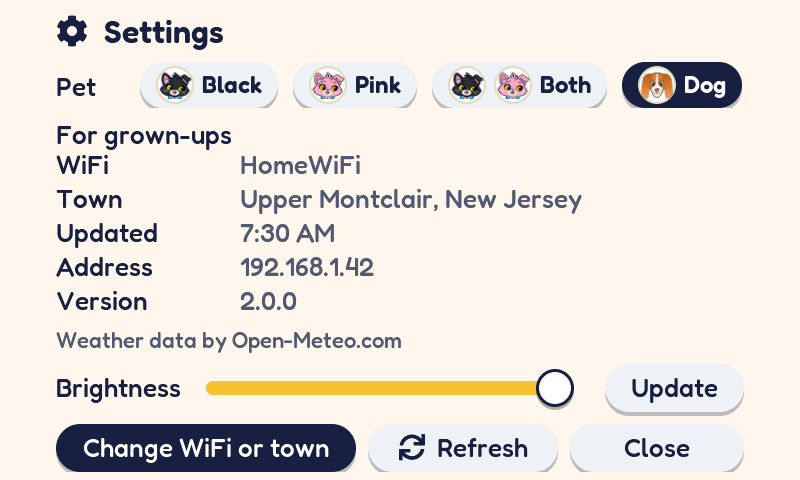
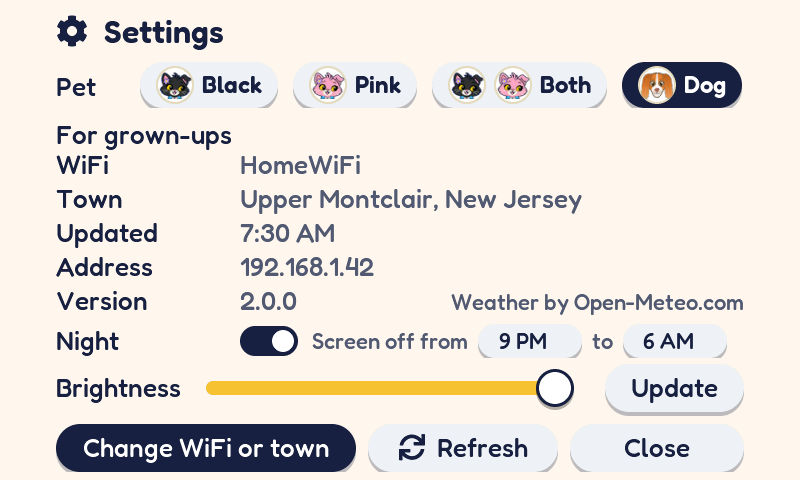
Settings: a Night row for screen off at night and its hours
The 2.0 Settings gets "Night  [switch]  Screen off from [9 PM] to [6 AM]"
in the info table's columns: the same setting as the setup page's night
hours (off until turned on), saved on the board the moment it changes
(WB_ACT_SET_NIGHT, wb_night_pack) and applied at once, since the power
timer reads the saved settings. The hour lists open upward; the weather
credit moves to the end of the Version row. wb_state_t carries night_off,
off_from and off_to; classic gets no-op stubs. Like the Brightness slider,
the row shows only when the board sets its callback, so Boris's own
Settings checks keep his layout.

Sim: shot 58 shows the row, 58b opens the "from" list and picks 8 PM
(the callback fires), with render checks for both.

Claude-Session: https://claude.ai/code/session_01EpKrVnNKAT4DZyGC7XuLCe

diff --git a/components/wb_ui/ui_v2_extras.c b/components/wb_ui/ui_v2_extras.c
@@ -798,3 +798,144 @@ void ui_set_brightness_cb(ui_brightness_cb_t cb)
         lv_obj_add_flag(s_br_speed_pill, LV_OBJ_FLAG_HIDDEN);
     }
 }
+
+/* ------------------------------------------------------------------ screen off at night */
+
+/* Settings: "Night  [on/off]  off from [9 PM] to [6 AM]", the setup page's night hours,
+ * here so a grown-up can change them without the setup hotspot. */
+
+static lv_obj_t *s_nt_row, *s_nt_sw, *s_nt_from, *s_nt_to, *s_nt_credit, *s_nt_version;
+static ui_night_cb_t s_nt_cb;
+
+static void night_style(void)
+{
+    bool on = lv_obj_has_state(s_nt_sw, LV_STATE_CHECKED);
+    lv_obj_set_style_opa(s_nt_from, on ? LV_OPA_COVER : LV_OPA_50, 0);   /* the hours only count when on */
+    lv_obj_set_style_opa(s_nt_to, on ? LV_OPA_COVER : LV_OPA_50, 0);
+}
+
+static void on_night(lv_event_t *e)
+{
+    (void)e;
+    night_style();
+    if (s_nt_cb) {
+        s_nt_cb(lv_obj_has_state(s_nt_sw, LV_STATE_CHECKED), (int)lv_dropdown_get_selected(s_nt_from),
+                (int)lv_dropdown_get_selected(s_nt_to));
+    }
+}
+
+static lv_obj_t *night_hours(lv_obj_t *parent, int x)
+{
+    static char opts[24 * 6];
+    if (!opts[0]) {
+        size_t n = 0;
+        for (int h = 0; h < 24; h++) {
+            n += (size_t)snprintf(opts + n, sizeof(opts) - n, "%s%d %s", h ? "\n" : "", h % 12 ? h % 12 : 12,
+                                  h < 12 ? "AM" : "PM");
+        }
+    }
+    lv_obj_t *d = lv_dropdown_create(parent);
+    lv_dropdown_set_options_static(d, opts);
+    lv_dropdown_set_dir(d, LV_DIR_TOP);   /* the row sits near the bottom: the list opens upward */
+    lv_dropdown_set_symbol(d, NULL);
+    lv_obj_set_size(d, 104, 34);
+    lv_obj_set_pos(d, x, 0);
+    lv_obj_set_style_text_font(d, &font_small, 0);
+    lv_obj_set_style_text_color(d, lv_color_hex(0x1E2340), 0);
+    lv_obj_set_style_text_align(d, LV_TEXT_ALIGN_CENTER, 0);
+    lv_obj_set_style_radius(d, LV_RADIUS_CIRCLE, 0);
+    lv_obj_set_style_bg_color(d, lv_color_hex(0xEDF1F5), 0);
+    lv_obj_set_style_border_width(d, 0, 0);
+    lv_obj_set_style_pad_ver(d, 4, 0);
+    lv_obj_t *list = lv_dropdown_get_list(d);
+    lv_obj_set_style_text_font(list, &font_small, 0);
+    lv_obj_set_style_max_height(list, 260, 0);
+    lv_obj_set_style_radius(list, 14, 0);
+    lv_obj_set_style_border_color(list, lv_color_hex(0xC9C3D6), 0);
+    lv_obj_set_style_bg_color(list, lv_color_hex(0x1E2340), LV_PART_SELECTED | LV_STATE_CHECKED);   /* the ink */
+    lv_obj_set_style_bg_color(list, lv_color_hex(0x545A72), LV_PART_SELECTED | LV_STATE_PRESSED);
+    lv_obj_add_event_cb(d, on_night, LV_EVENT_VALUE_CHANGED, NULL);
+    v2_raise(d);
+    return d;
+}
+
+/* A grey word in the row at x; returns its width. */
+static int night_word(lv_obj_t *parent, const char *txt, int x)
+{
+    lv_obj_t *l = lv_label_create(parent);
+    lv_obj_set_style_text_font(l, &font_small, 0);
+    lv_obj_set_style_text_color(l, lv_color_hex(0x545A72), 0);
+    lv_label_set_text(l, txt);
+    lv_obj_align(l, LV_ALIGN_LEFT_MID, x, 0);
+    lv_point_t sz;
+    lv_text_get_size(&sz, txt, &font_small, 0, 0, LV_COORD_MAX, LV_TEXT_FLAG_NONE);
+    return sz.x;
+}
+
+void v2_night_attach(lv_obj_t *settings, lv_obj_t *credit, lv_obj_t *version_val, int y)
+{
+    s_nt_credit = credit;
+    s_nt_version = version_val;
+    s_nt_row = lv_obj_create(settings);
+    lv_obj_remove_style_all(s_nt_row);
+    lv_obj_remove_flag(s_nt_row, LV_OBJ_FLAG_SCROLLABLE);
+    lv_obj_set_pos(s_nt_row, 56, y);
+    lv_obj_set_size(s_nt_row, 688, 34);
+    lv_obj_t *k = lv_label_create(s_nt_row);   /* in the info table's label column */
+    lv_obj_set_style_text_font(k, &font_body, 0);
+    lv_obj_set_style_text_color(k, lv_color_hex(0x1E2340), 0);
+    lv_label_set_text(k, "Night");
+    lv_obj_align(k, LV_ALIGN_LEFT_MID, 0, 0);
+    s_nt_sw = lv_switch_create(s_nt_row);   /* in the value column (x 240 on the page) */
+    lv_obj_set_size(s_nt_sw, 58, 30);
+    lv_obj_align(s_nt_sw, LV_ALIGN_LEFT_MID, 184, 0);
+    lv_obj_set_style_bg_color(s_nt_sw, lv_color_hex(0x1E2340), LV_PART_INDICATOR | LV_STATE_CHECKED);
+    lv_obj_add_event_cb(s_nt_sw, on_night, LV_EVENT_VALUE_CHANGED, NULL);
+    lv_obj_set_ext_click_area(s_nt_sw, 8);
+    int x = 256;
+    x += night_word(s_nt_row, "Screen off from", x) + 10;
+    s_nt_from = night_hours(s_nt_row, x);
+    x += 104 + 10;
+    x += night_word(s_nt_row, "to", x) + 10;
+    s_nt_to = night_hours(s_nt_row, x);
+    ui_set_night(false, 21, 6);
+    lv_obj_add_flag(s_nt_row, LV_OBJ_FLAG_HIDDEN);   /* until the board asks for it */
+}
+
+void ui_set_night(bool on, int from_hour, int to_hour)
+{
+    if (!s_nt_row) {
+        return;
+    }
+    if (on) {   /* set quietly: LVGL sends no VALUE_CHANGED for these */
+        lv_obj_add_state(s_nt_sw, LV_STATE_CHECKED);
+    } else {
+        lv_obj_remove_state(s_nt_sw, LV_STATE_CHECKED);
+    }
+    lv_dropdown_set_selected(s_nt_from, (uint32_t)(from_hour % 24));
+    lv_dropdown_set_selected(s_nt_to, (uint32_t)(to_hour % 24));
+    night_style();
+}
+
+#ifdef WB_SIM
+/* Opens the "from" hours list and picks hour h in it, as a finger would. */
+void v2_night_test_pick(int h)
+{
+    lv_dropdown_open(s_nt_from);
+    lv_dropdown_set_selected(s_nt_from, (uint32_t)h);
+    lv_obj_send_event(s_nt_from, LV_EVENT_VALUE_CHANGED, NULL);
+}
+#endif
+
+void ui_set_night_cb(ui_night_cb_t cb)
+{
+    s_nt_cb = cb;
+    if (s_nt_row) {   /* the row takes the weather credit's line; the credit joins Version's */
+        lv_obj_remove_flag(s_nt_row, LV_OBJ_FLAG_HIDDEN);
+        lv_obj_set_width(s_nt_version, 200);
+        lv_label_set_text(s_nt_credit, "Weather by Open-Meteo.com");
+        lv_obj_set_style_text_align(s_nt_credit, LV_TEXT_ALIGN_RIGHT, 0);
+        lv_obj_set_width(s_nt_credit, 300);
+        lv_obj_set_pos(s_nt_credit, 744 - 300, lv_obj_get_style_y(s_nt_version, 0) + 4);
+    }
+}

diff --git a/components/wb_ui/wb_ui.c b/components/wb_ui/wb_ui.c
@@ -19,7 +19,7 @@ static void *s_user;
 /* The parts of the state the setters below compare: what the screens were last given.
  * Only these, not the whole ~4 KB state. */
 #define SEEN_FIELDS(X)                                                                             \
-    X(names) X(pet_name) X(pet) X(brightness) X(leave_min) X(bed_min) X(coat_f) X(jacket_f)      \
+    X(names) X(pet_name) X(pet) X(brightness) X(night_off) X(off_from) X(off_to) X(leave_min) X(bed_min) X(coat_f) X(jacket_f)      \
     X(hoodie_f) X(warm_pm_f) X(bike_bus_wday) X(ndress) X(dress_days) X(cal_configured)            \
     X(cal_reads) X(cal_fails)
 #define SEEN_DECL(f) __typeof__(((wb_state_t *)0)->f) f;
@@ -44,6 +44,13 @@ static void on_pet(int choice)
     }
 }
 
+static void on_night(bool on, int from_hour, int to_hour)
+{
+    if (s_cb) {
+        s_cb(WB_ACT_SET_NIGHT, wb_night_pack(on, from_hour, to_hour), s_user);
+    }
+}
+
 static void on_brightness(int pct)
 {
     if (s_cb) {
@@ -60,6 +67,7 @@ void wb_ui_start(wb_action_cb_t on_act, void *user, wb_clock_cb_t clock)
     ui_set_action_cb(on_action, NULL);
     ui_set_cat_cb(on_pet);
     ui_set_brightness_cb(on_brightness);   /* 2.0: the Brightness slider in Settings */
+    ui_set_night_cb(on_night);             /* 2.0: the Night row in Settings */
     ui_set_time_cb(clock);
     ui_set_dress_days(NULL, 0);            /* 2.0: the dress on dress-up days only */
 }
@@ -80,6 +88,9 @@ void wb_ui_update(const wb_state_t *st)
     }
     if (CHANGED(brightness)) {
         ui_set_brightness(st->brightness);
+    }
+    if (CHANGED(night_off) || CHANGED(off_from) || CHANGED(off_to)) {
+        ui_set_night(st->night_off, st->off_from, st->off_to);
     }
     if (CHANGED(leave_min) || CHANGED(bed_min)) {
         ui_set_routine_times(st->leave_min, st->bed_min);

diff --git a/sim/check_renders.py b/sim/check_renders.py
@@ -1948,6 +1948,18 @@ def main():
     for name in ("61_hold_today", "62_hold_myday", "63_hold_next_days"):
         n = count_where(Image.open(os.path.join(OUT, name + ".png")), (600, 364, 744, 412), is_pill_grey)
         check(n > 2000, f"{name}: a 1.5 s hold opened Settings ({n} pill px, need > 2000)")
+    # This fork's Night row in Settings (screen off at night): the switch is on (ink fill
+    # in the value column), and in 58b the hours list stands open above the "from" box,
+    # its picked hour in ink.
+    def is_ink(r, g, b):
+        return r < 50 and g < 55 and b < 90
+
+    img = Image.open(os.path.join(OUT, "58_dog_settings.png"))
+    n = count_where(img, (236, 324, 300, 358), is_ink)
+    check(n > 300, f"58_dog_settings: the Night switch is on ({n} ink px, need > 300)")
+    img = Image.open(os.path.join(OUT, "58b_dog_settings_night.png"))
+    n = count_where(img, (470, 60, 600, 320), is_ink)
+    check(n > 2000, f"58b_dog_settings_night: the hours list is open above the box ({n} ink px, need > 2000)")
     img = Image.open(os.path.join(OUT, "60_dog_myday.png"))
     n = count_where(img, (660, 0, 800, 150), is_dog_orange)   # the small header pet (Boris's iter-36)
     check(n > 250, f"60_dog_myday: the dog is in My Day's header ({n} orange px, need > 250)")

diff --git a/components/wb_ui/ui_v2_extras.h b/components/wb_ui/ui_v2_extras.h
@@ -51,6 +51,7 @@ lv_obj_t *v2_routine_create(lv_obj_t *scr);
 void v2_routine_render(const struct tm *now, const lv_image_dsc_t *pet, const lv_image_dsc_t *head);
 #ifdef WB_SIM
 void v2_routine_test_tap(int row);
+void v2_night_test_pick(int h);   /* the Night row's "from" list: open it, pick hour h */
 #endif
 
 /* Making it obvious what a kid can tap. v2_raise gives a tappable thing the one
@@ -72,6 +73,10 @@ void v2_sun_moon_set(const wx_t *wx);
 /* The Brightness slider row in Settings, in the Speed test pill's place once the board
  * sets ui_set_brightness_cb (Boris's render checks keep his pill). */
 void v2_brightness_attach(lv_obj_t *settings, lv_obj_t *speed_pill, int x, int y, int w);
+/* Settings: a "Night" row (screen off from .. to ..) at y in the info table's columns, in
+ * place of the weather credit, which moves to the right end of the Version row. Hidden
+ * until the board sets ui_set_night_cb (Boris's render checks keep his layout). */
+void v2_night_attach(lv_obj_t *settings, lv_obj_t *credit, lv_obj_t *version_val, int y);
 
 /* An "Update" pill in Settings, right-aligned to x_right at y: closes Settings and asks
  * for a firmware check now (fire is ui.c's action sender). */

diff --git a/main/main.c b/main/main.c
@@ -84,6 +84,9 @@ static void state_from_settings(void)
     snprintf(s_state->pet_name, sizeof(s_state->pet_name), "%s", S.pet_name);
     s_state->pet = (wb_pet_t)S.cat;
     s_state->brightness = S.brightness;
+    s_state->night_off = S.night_off;
+    s_state->off_from = S.off_from;
+    s_state->off_to = S.off_to;
     s_state->leave_min = S.leave_min;
     s_state->bed_min = S.bed_min;
     s_state->coat_f = S.coat_f;
@@ -110,6 +113,15 @@ static void on_action(wb_action_t act, int value, void *user)
         S.brightness = (uint8_t)value;
         settings_save(&S);
         s_state->brightness = value;   /* the screen already shows it */
+        break;
+    case WB_ACT_SET_NIGHT:   /* the Night row in Settings; power_timer reads S, so it applies now */
+        S.night_off = wb_night_on(value);
+        S.off_from = (uint8_t)wb_night_from(value);
+        S.off_to = (uint8_t)wb_night_to(value);
+        settings_save(&S);
+        s_state->night_off = S.night_off;   /* the screen already shows it */
+        s_state->off_from = S.off_from;
+        s_state->off_to = S.off_to;
         break;
     default:
         net_ui_action(act);   /* Setup, Refresh, Update */

diff --git a/sim/sim_main.c b/sim/sim_main.c
@@ -403,6 +403,11 @@ static void sim_brightness_cb(int pct)
     printf("brightness saved: %d%%\n", pct);
 }
 
+static void sim_night_cb(bool on, int from_hour, int to_hour)
+{
+    printf("night saved: %s %d-%d\n", on ? "on" : "off", from_hour, to_hour);
+}
+
 /* A pretend finger, so the tests can hold the screen like a kid does (the board's
  * long-press time is 1.5 s, main/board.c). */
 static bool s_touch;
@@ -1041,9 +1046,13 @@ int main(int argc, char **argv)
     }
     ui_test_set_page(0);
     ui_set_brightness_cb(sim_brightness_cb);   /* the board's Settings: a Brightness slider */
+    ui_set_night_cb(sim_night_cb);             /* ... and the Night row */
+    ui_set_night(true, 21, 6);
     ui_set_brightness(100);
     ui_open_settings();
     save(out, "58_dog_settings");
+    v2_night_test_pick(20);   /* the hours list opens upward; 8 PM is picked and saved */
+    save(out, "58b_dog_settings_night");
     ui_close_settings();
     ui_set_brightness(40);   /* dimmed to 40 %: the dark layer over everything */
     load(sc, "brief_morning");

diff --git a/components/wb_ui/wb_ui.h b/components/wb_ui/wb_ui.h
@@ -28,9 +28,19 @@ typedef enum {
     WB_ACT_UPDATE,           /* check for a firmware update now */
     WB_ACT_SET_PET,          /* value: a wb_pet_t; save it */
     WB_ACT_SET_BRIGHTNESS,   /* value: 30..100; save it (the screen already shows it) */
+    WB_ACT_SET_NIGHT,        /* value: wb_night_pack(); save it (the screen already shows it) */
 } wb_action_t;
 
 typedef void (*wb_action_cb_t)(wb_action_t act, int value, void *user);
+
+/* WB_ACT_SET_NIGHT's value: screen off at night on/off and its hours, in one int. */
+static inline int wb_night_pack(bool on, int from_hour, int to_hour)
+{
+    return (on ? 1 << 16 : 0) | (from_hour % 24) << 8 | (to_hour % 24);
+}
+static inline bool wb_night_on(int v) { return (v >> 16) & 1; }
+static inline int wb_night_from(int v) { return (v >> 8) & 0xFF; }
+static inline int wb_night_to(int v) { return v & 0xFF; }
 
 /* Fills local time; returns false while the clock isn't set yet. */
 typedef bool (*wb_clock_cb_t)(struct tm *local_out);

diff --git a/components/wb_ui/ui.h b/components/wb_ui/ui.h
@@ -53,6 +53,12 @@ typedef void (*ui_brightness_cb_t)(int pct);
 void ui_set_brightness(int pct);
 void ui_set_brightness_cb(ui_brightness_cb_t cb);
 
+/* Screen off at night: on/off and the hours (local, 0..23), shown and changed in Settings
+ * (2.0). The callback fires when someone changes them there; the board saves them. */
+typedef void (*ui_night_cb_t)(bool on, int from_hour, int to_hour);
+void ui_set_night(bool on, int from_hour, int to_hour);
+void ui_set_night_cb(ui_night_cb_t cb);
+
 void ui_init(const char *names);
 void ui_set_names(const char *names);
 void ui_set_pet_name(const char *name);   /* the dog's name from setup; "" shows "Dog" */

diff --git a/components/wb_core/wb_state.h b/components/wb_core/wb_state.h
@@ -34,6 +34,8 @@ typedef struct {
     char pet_name[24];       /* the dog's name; "" shows "Dog" */
     wb_pet_t pet;
     int brightness;          /* 30..100 % */
+    bool night_off;          /* screen off at night (a tap wakes it) */
+    int off_from, off_to;    /* ... between these hours, local 0..23 */
     int leave_min, bed_min;  /* Routine page: leaving for school, bedtime (minutes after midnight) */
     int coat_f, jacket_f, hoodie_f;   /* outfit cut-offs, feels-like °F at departure; 0 = the engine's own */
     int warm_pm_f;           /* a warm afternoon makes a coat morning a light-jacket one; 0 = off */

diff --git a/components/wb_ui/ui.c b/components/wb_ui/ui.c
@@ -1178,6 +1178,7 @@ static void build_settings(void)
     v2_raise(set_speed_pill);   /* this fork: the one button look */
     v2_update_pill_create(settings, 744, 364, fire);   /* this fork: update now (ui_v2_extras.c) */
     v2_brightness_attach(settings, set_speed_pill, 56, 364, 520);   /* this fork: Brightness, in Speed test's place */
+    v2_night_attach(settings, credit, set_val[4], 324);   /* this fork: screen off at night */
 
     /* The tools row (iter-11): one deliberate geometry for the three
      * actions. Equal widths are impossible honestly: "Change WiFi or

diff --git a/components/wb_ui/classic/ui_classic_extras.c b/components/wb_ui/classic/ui_classic_extras.c
@@ -56,6 +56,18 @@ void ui_set_brightness(int pct)
     (void)pct;   /* the classic screens keep full brightness */
 }
 
+void ui_set_night(bool on, int from_hour, int to_hour)
+{
+    (void)on;   /* the classic Settings doesn't show it; the setup page sets it */
+    (void)from_hour;
+    (void)to_hour;
+}
+
+void ui_set_night_cb(ui_night_cb_t cb)
+{
+    (void)cb;
+}
+
 void ui_set_brightness_cb(ui_brightness_cb_t cb)
 {
     (void)cb;

diff --git a/README.md b/README.md
@@ -64,6 +64,7 @@ This fork's additions to 2.0 live in `ui_v2_extras.c`, with one-line hooks in hi
 - **Dress-up days.** Boris's outfit engine puts her in the dress on every light-jacket day (cool but mild). Here the dress is for dress-up days: other light-jacket days get long sleeves, jeans, sneakers and the same light jacket. When the weather fits the dress, a **Dress up?** pill next to "Today · Tuesday" turns that day into a dress-up day with a tap (tap again to undo; once something is checked off, the "2 of 4 ready" chip takes its place until everything is unchecked). A calendar event tagged **(dress)** or 👗 ("Picture day (dress)") starts the day dressed up. Cold, rain and heat still win. (`ui_set_dress_days()` switches this on; without it, as in Boris's render checks, his every-mild-day rule applies.)
 - **Countdowns** in the My Day header, between the title and the pet (today's date moves next to the "Today" heading, like Tomorrow's): "11 more sleeps until Trip to Grandma's!" (or "11 sleeps until ...!" when space is short). They come from calendar titles tagged (countdown), 🎂 or 🎉 and special events with Countdown ticked, up to 60 days out; the nearest one wins.
 - **The name from setup in the page title** when it fits beside the weather ("Good morning, Kid!", "Ready for tomorrow, Kid?"). Boris's design keeps names off the screen, so it's one switch, `v2_set_name_in_title()`.
+- **Screen off at night, in Settings:** a **Night** row with an on/off switch and "Screen off from 9 PM to 6 AM" as two hour lists (they open upward), saved on the board the moment they change. It's the same setting as the night hours on the setup page, off until someone turns it on. In those hours the screen goes dark after a minute without a touch; a tap wakes it.
 - **A Brightness slider in Settings** (in place of Boris's speed test), 30 to 100 %, starting at 50 %, saved on the board. Dimming the picture really does send less light into the room (the pixels block more of the backlight). The backlight on this board can only switch on and off (it's wired through the IO expander), so the picture itself is dimmed: a see-through dark layer over everything. It doesn't save power, and blacks look a little grey when it's low; the night-off setting still turns the screen fully off.
 - **An Update pill in Settings**, and fixes found on the board: a long press now opens Settings (his pages ignored touches), and LVGL allocates from PSRAM so the screens leave WiFi its internal RAM.
 - Plus the WPA2 setup hotspot, over-the-air updates, the real-clock fix and this fork's settings (no bike bus).
@@ -120,7 +121,7 @@ Defaults if you skip things: Upper Montclair, NJ, no name, Fahrenheit, no specia
 ## Using it
 
 - Classic: swipe left for the next three days, right to come back. 2.0: tap the tabs at the bottom (Today, Tomorrow, My Day, Routine), or swipe.
-- Hold a finger still to open Settings: on the 2.0 screens for about a second, anywhere on the page (a resting finger that wanders a little still counts); on the classic screens for 1.5 seconds on an empty spot (the greeting is easiest). On the classic screens it shows the WiFi, town, last update, version, and the official name of any weather alert. **Refresh** fetches the weather, alerts and calendar now; **Setup** reopens the setup hotspot (WiFi, town, events, calendar, alerts, automatic updates); **Update** checks for new firmware now. (On the 2.0 screens, Settings has the pet picker, the WiFi, town and version, a **Brightness** slider, **Refresh**, **Change WiFi or town** (the setup hotspot), and this fork's **Update** pill.)
+- Hold a finger still to open Settings: on the 2.0 screens for about a second, anywhere on the page (a resting finger that wanders a little still counts); on the classic screens for 1.5 seconds on an empty spot (the greeting is easiest). On the classic screens it shows the WiFi, town, last update, version, and the official name of any weather alert. **Refresh** fetches the weather, alerts and calendar now; **Setup** reopens the setup hotspot (WiFi, town, events, calendar, alerts, automatic updates); **Update** checks for new firmware now. (On the 2.0 screens, Settings has the pet picker, the WiFi, town and version, a **Night** row (screen off at night, on or off, and from / to which hour), a **Brightness** slider, **Refresh**, **Change WiFi or town** (the setup hotspot), and this fork's **Update** pill.)
 - Settings are stored on the board and survive reboots and over-the-air updates. Flashing the full image at `0x0` erases them; see [docs/deploy.md](docs/deploy.md#7-updating-the-firmware-later).
 
 ## The pets
@@ -146,7 +147,7 @@ Switching designs on a running board is just another update: build, `tools/relea
 
 ### Make your own
 
-The screens are separate from the rest. The controller (`main/`) fills in one struct (`wb_state_t`) and hands it to whichever design is built through a seven-function contract (`components/wb_ui/wb_ui.h`); taps come back as actions (Refresh, Update, Setup, pet, brightness). The rules (what to wear, the routine, countdowns, calendar, alerts) are plain C in `components/wb_core/` that any design can call. A new design needs no changes in `main/`. [docs/new-ui.md](docs/new-ui.md) walks through it, starting from a text-only example (`components/wb_ui/example/`, `#define WB_UI_EXAMPLE 1`):
+The screens are separate from the rest. The controller (`main/`) fills in one struct (`wb_state_t`) and hands it to whichever design is built through a seven-function contract (`components/wb_ui/wb_ui.h`); taps come back as actions (Refresh, Update, Setup, pet, brightness, night hours). The rules (what to wear, the routine, countdowns, calendar, alerts) are plain C in `components/wb_core/` that any design can call. A new design needs no changes in `main/`. [docs/new-ui.md](docs/new-ui.md) walks through it, starting from a text-only example (`components/wb_ui/example/`, `#define WB_UI_EXAMPLE 1`):
 
 ![The text-only example design](docs/example/03_weather.png)
 
